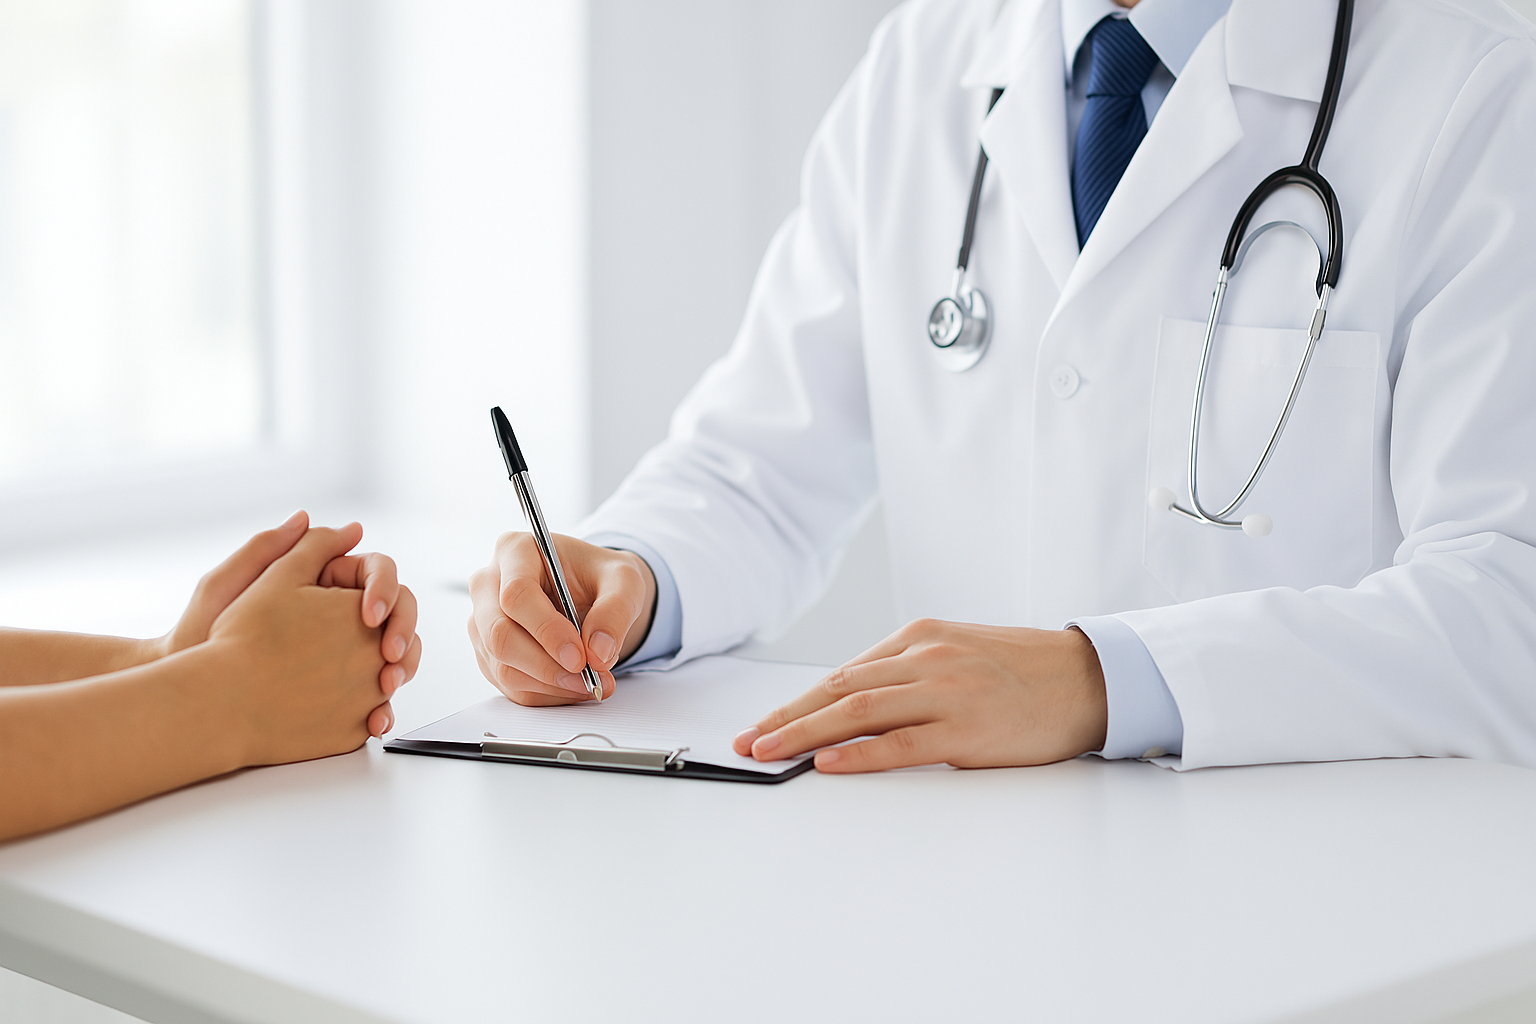
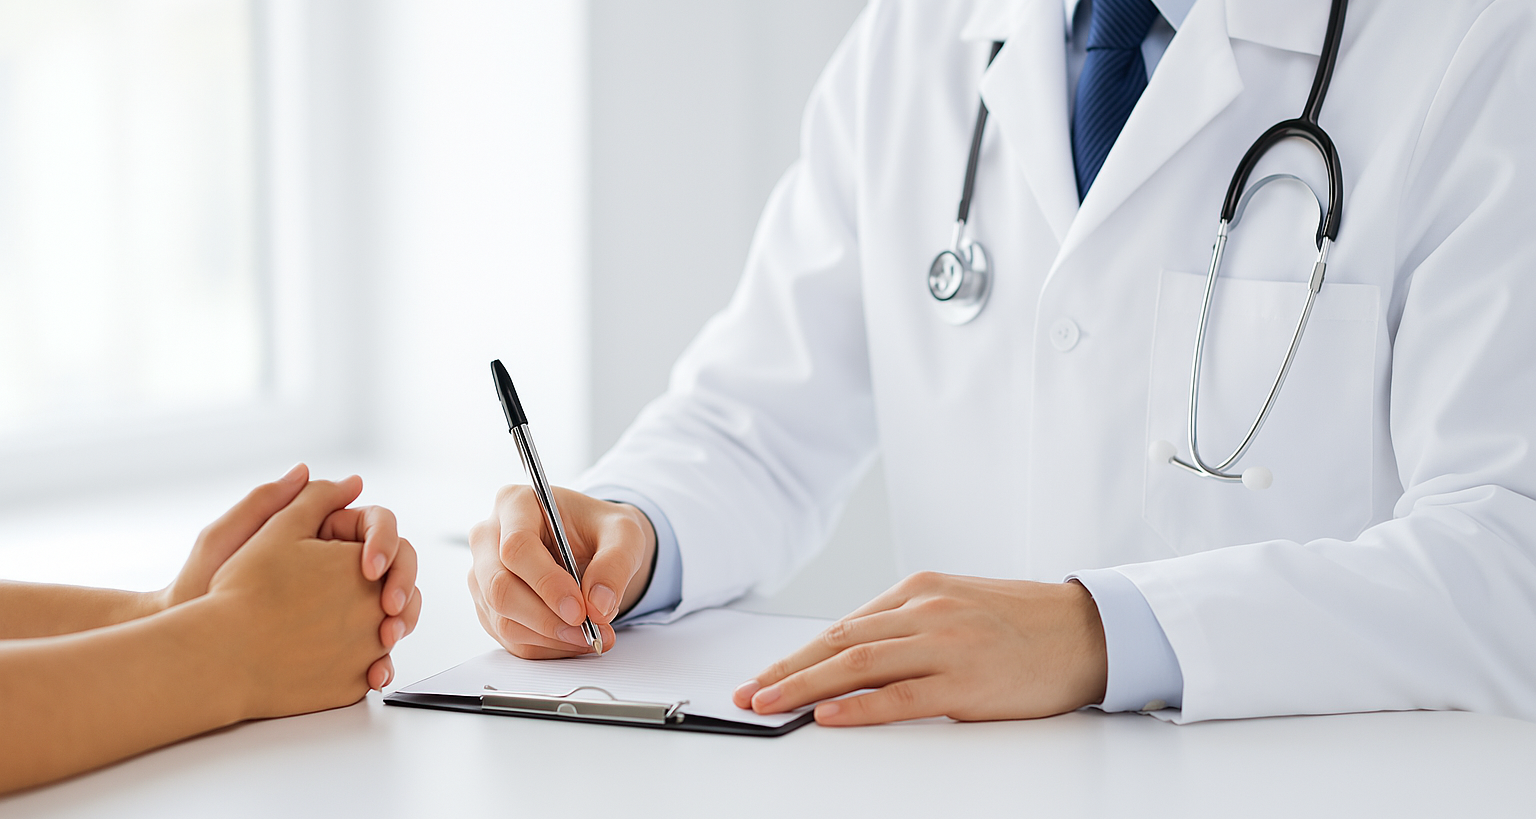
Arreglos menores

diff --git a/core/static/css/header.css b/core/static/css/header.css
@@ -1,13 +1,17 @@
+/* Nav principal */
 .nav-bar {
-    width:auto;
+    top: 0;
+    position: sticky;
+    width: 100%;
     height: auto;
     background-color: #2CCF9B;
     display: flex;
-    justify-content: space-between;
     align-items: center;
+    justify-content: space-between;
     padding: 10px 20px;
 }
 
+/* nav derecho */
 .nav-links {
     display: flex;
     gap: 16px;
@@ -17,6 +21,7 @@
 .nav-links a {
     text-decoration: none;
     color: white;
+    font-weight: 500;
 }
 
 .nav-bar ul {
@@ -34,26 +39,49 @@
     transform: scale(1.05);
 }
 
-/* Background section */
-
-.bg-section {
-    background-size: cover;
-    background-position: center;
-    background-repeat: no-repeat;
-    height: 100%;
-    width: 100%;
-}
-
-/* section prueba */
-
-.prueba {
+.nav-links li a{
+    display: flex;
+    justify-content: center;
+    align-items: center;
+    gap: 12px;
+    text-decoration: none;
     position: relative;
-    transform-style: preserve-3d;
-    left: 0;
-    width: 100%;
-    background-color: white;
-    height: 840px;
-    z-index: -1;
-    padding: 20px;
-    box-sizing: border-box;
 }
+
+.nav-links li a::before{
+    content: '';
+    position: absolute;
+    bottom: -10px;
+    left: 50%;
+    transform: translateX(-50%);
+    width: 0;
+    height: 2px;
+    background-color: white;
+    transition: all .3s;
+}
+
+.nav-links li a:hover:before {
+    width: 100%;
+}
+
+/* Nav izquierdo */
+.nav-left a {
+    display: flex;
+    justify-content: center;
+    align-items: center;
+    gap: 12px;
+    text-decoration: none;
+}
+
+.nav-span {
+  font-size: 1.2rem;
+  font-weight: 600;
+  color: white;
+}
+
+.nav-icon {
+  width: 50px;
+  height: auto;
+  cursor: pointer;
+}
+

diff --git a/core/templates/header.html b/core/templates/header.html
@@ -1,24 +1,19 @@
 {% load static %}
 
 <header class="nav-bar">
-    <div class="nav-icon nav-span">
-        <a href="">
-            <img src="" alt="">
-            <span>MedTime</span>
-        </a>
-    </div>
+  <div class="nav-left" >
+    <a href="">
+      <img src="{% static 'img/icon.png' %}" alt="MedTime icon" class="nav-icon" />
+      <span class="nav-span">MedTime</span>
+    </a>
+  </div>
 
-    <ul class="nav-links">
-        <li><a href="">Home</a></li>
-        <li><a href="">Inicia sesion</a></li>
-        <li><a href="">Registrate</a></li>
-        <li class="nav-btn"> <a href="">Agenda tu cita medica</a></li>
-    </ul>
+  <ul class="nav-links">
+    <li><a href="">Home</a></li>
+    <li><a href="">Inicia sesion</a></li>
+    <li><a href="">Registrate</a></li>
+    <a href="" class="nav-btn">Agenda tu cita medica</a>
+  </ul>
 </header>
 
-<section>
-    <img class="bg-section" src="{% static 'img/background.png' %}" alt="">
-</section>
-
-
-<link rel="stylesheet" href="{% static 'css/header.css' %}">
+<link rel="stylesheet" href="{% static 'css/header.css' %}" />

diff --git a/core/templates/section.html b/core/templates/section.html
@@ -1,0 +1,14 @@
+{% load static %}
+
+<section class="container">
+  <div class="">
+    <img src={% static 'img/background.png' %} class="background">
+  </div>
+  <div>
+    Lorem ipsum dolor sit amet consectetur adipisicing elit. Amet ea voluptatem
+    sint id officiis modi quia tempore consequatur distinctio? Laborum ipsam
+    perspiciatis, maxime laudantium ipsum delectus nesciunt magni saepe sequi.
+  </div>
+</section>
+
+<link rel="stylesheet" href="{% static 'css/section.css' %}" />

diff --git a/core/static/css/section.css b/core/static/css/section.css
@@ -1,0 +1,12 @@
+.container {
+  max-width: 100vw;
+}
+
+.background {
+  width: 100%;
+  height: 720px;
+  object-fit: cover;
+  box-shadow: 0 4px 10px rgba(0, 0, 0, 0.2);
+  margin-bottom: 1.5rem;
+  object-position: center 80%;
+}

diff --git a/core/templates/app.html b/core/templates/app.html
@@ -10,5 +10,6 @@
 </head>
 <body>
     {% include 'header.html' %}
+    {% include 'section.html' %}
 </body>
 </html>
